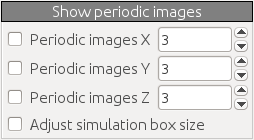
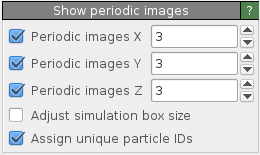
Added the 'Assign unique particle IDs' option to the Show Periodic Images modifier.

diff --git a/src/plugins/particles/modifier/pbc/ShowPeriodicImagesModifier.cpp b/src/plugins/particles/modifier/pbc/ShowPeriodicImagesModifier.cpp
@@ -36,6 +36,7 @@ DEFINE_PROPERTY_FIELD(ShowPeriodicImagesModifier, _numImagesX, "NumImagesX");
 DEFINE_PROPERTY_FIELD(ShowPeriodicImagesModifier, _numImagesY, "NumImagesY");
 DEFINE_PROPERTY_FIELD(ShowPeriodicImagesModifier, _numImagesZ, "NumImagesZ");
 DEFINE_PROPERTY_FIELD(ShowPeriodicImagesModifier, _adjustBoxSize, "AdjustBoxSize");
+DEFINE_PROPERTY_FIELD(ShowPeriodicImagesModifier, _uniqueIdentifiers, "UniqueIdentifiers");
 SET_PROPERTY_FIELD_LABEL(ShowPeriodicImagesModifier, _showImageX, "Periodic images X");
 SET_PROPERTY_FIELD_LABEL(ShowPeriodicImagesModifier, _showImageY, "Periodic images Y");
 SET_PROPERTY_FIELD_LABEL(ShowPeriodicImagesModifier, _showImageZ, "Periodic images Z");
@@ -43,13 +44,14 @@ SET_PROPERTY_FIELD_LABEL(ShowPeriodicImagesModifier, _numImagesX, "Number of per
 SET_PROPERTY_FIELD_LABEL(ShowPeriodicImagesModifier, _numImagesY, "Number of periodic images - Y");
 SET_PROPERTY_FIELD_LABEL(ShowPeriodicImagesModifier, _numImagesZ, "Number of periodic images - Z");
 SET_PROPERTY_FIELD_LABEL(ShowPeriodicImagesModifier, _adjustBoxSize, "Adjust simulation box size");
+SET_PROPERTY_FIELD_LABEL(ShowPeriodicImagesModifier, _uniqueIdentifiers, "Assign unique particle IDs");
 
 /******************************************************************************
 * Constructs the modifier object.
 ******************************************************************************/
 ShowPeriodicImagesModifier::ShowPeriodicImagesModifier(DataSet* dataset) : ParticleModifier(dataset),
 	_showImageX(false), _showImageY(false), _showImageZ(false),
-	_numImagesX(3), _numImagesY(3), _numImagesZ(3), _adjustBoxSize(false)
+	_numImagesX(3), _numImagesY(3), _numImagesZ(3), _adjustBoxSize(false), _uniqueIdentifiers(true)
 {
 	INIT_PROPERTY_FIELD(ShowPeriodicImagesModifier::_showImageX);
 	INIT_PROPERTY_FIELD(ShowPeriodicImagesModifier::_showImageY);
@@ -58,6 +60,7 @@ ShowPeriodicImagesModifier::ShowPeriodicImagesModifier(DataSet* dataset) : Parti
 	INIT_PROPERTY_FIELD(ShowPeriodicImagesModifier::_numImagesY);
 	INIT_PROPERTY_FIELD(ShowPeriodicImagesModifier::_numImagesZ);
 	INIT_PROPERTY_FIELD(ShowPeriodicImagesModifier::_adjustBoxSize);
+	INIT_PROPERTY_FIELD(ShowPeriodicImagesModifier::_uniqueIdentifiers);
 }
 
 /******************************************************************************
@@ -121,6 +124,18 @@ PipelineStatus ShowPeriodicImagesModifier::modifyParticles(TimePoint time, TimeI
 				}
 			}
 		}
+
+		// Assign unique IDs to duplicated particle.
+		if(uniqueIdentifiers() && newProperty->type() == ParticleProperty::IdentifierProperty) {
+			auto minmax = std::minmax_element(newProperty->constDataInt(), newProperty->constDataInt() + oldParticleCount);
+			int minID = *minmax.first;
+			int maxID = *minmax.second;
+			for(size_t c = 1; c < numCopies; c++) {
+				int offset = (maxID - minID + 1) * c;
+				for(auto id = newProperty->dataInt() + c * oldParticleCount, id_end = id + oldParticleCount; id != id_end; ++id)
+					*id += offset;
+			}
+		}
 	}
 
 	if(adjustBoxSize()) {
@@ -172,6 +187,9 @@ void ShowPeriodicImagesModifierEditor::createUI(const RolloutInsertionParameters
 
 	BooleanParameterUI* adjustBoxSizeUI = new BooleanParameterUI(this, PROPERTY_FIELD(ShowPeriodicImagesModifier::_adjustBoxSize));
 	layout->addWidget(adjustBoxSizeUI->checkBox(), 3, 0, 1, 2);
+
+	BooleanParameterUI* uniqueIdentifiersUI = new BooleanParameterUI(this, PROPERTY_FIELD(ShowPeriodicImagesModifier::_uniqueIdentifiers));
+	layout->addWidget(uniqueIdentifiersUI->checkBox(), 4, 0, 1, 2);
 }
 
 };	// End of namespace

diff --git a/src/plugins/particles/modifier/pbc/ShowPeriodicImagesModifier.h b/src/plugins/particles/modifier/pbc/ShowPeriodicImagesModifier.h
@@ -84,6 +84,12 @@ public:
 	/// Sets whether the size of the simulation box should be adjusted.
 	void setAdjustBoxSize(bool adjust) { _adjustBoxSize = adjust; }
 
+	/// Returns whether the modifier assigns unique identifiers to particle copies.
+	bool uniqueIdentifiers() const { return _uniqueIdentifiers; }
+
+	/// Sets whether the the modifier assigns unique identifiers to particle copies.
+	void setUniqueIdentifiers(bool uniqueIdentifiers) { _uniqueIdentifiers = uniqueIdentifiers; }
+
 public:
 
 	Q_PROPERTY(bool showImageX READ showImageX WRITE setShowImageX);
@@ -119,6 +125,9 @@ private:
 	/// Controls whether the size of the simulation box is adjusted to the extended system.
 	PropertyField<bool> _adjustBoxSize;
 
+	/// Controls whether the modifier assigns unique identifiers to particle copies.
+	PropertyField<bool> _uniqueIdentifiers;
+
 private:
 
 	Q_OBJECT
@@ -134,6 +143,7 @@ private:
 	DECLARE_PROPERTY_FIELD(_numImagesY);
 	DECLARE_PROPERTY_FIELD(_numImagesZ);
 	DECLARE_PROPERTY_FIELD(_adjustBoxSize);
+	DECLARE_PROPERTY_FIELD(_uniqueIdentifiers);
 };
 
 /**

diff --git a/src/plugins/particles/scripting/ModifierBinding.cpp b/src/plugins/particles/scripting/ModifierBinding.cpp
@@ -205,6 +205,10 @@ BOOST_PYTHON_MODULE(ParticlesModify)
 				"If ``True``, the simulation cell is extended to fit the multiplied system."
 				"\n\n"
 				":Default: ``False``\n")
+		.add_property("unique_ids", &ShowPeriodicImagesModifier::uniqueIdentifiers, &ShowPeriodicImagesModifier::setUniqueIdentifiers,
+				"If ``True``, the modifier automatically generates a new unique ID for copies of a particle."
+				"\n\n"
+				":Default: ``True``\n")
 	;
 
 	ovito_class<WrapPeriodicImagesModifier, ParticleModifier>(
